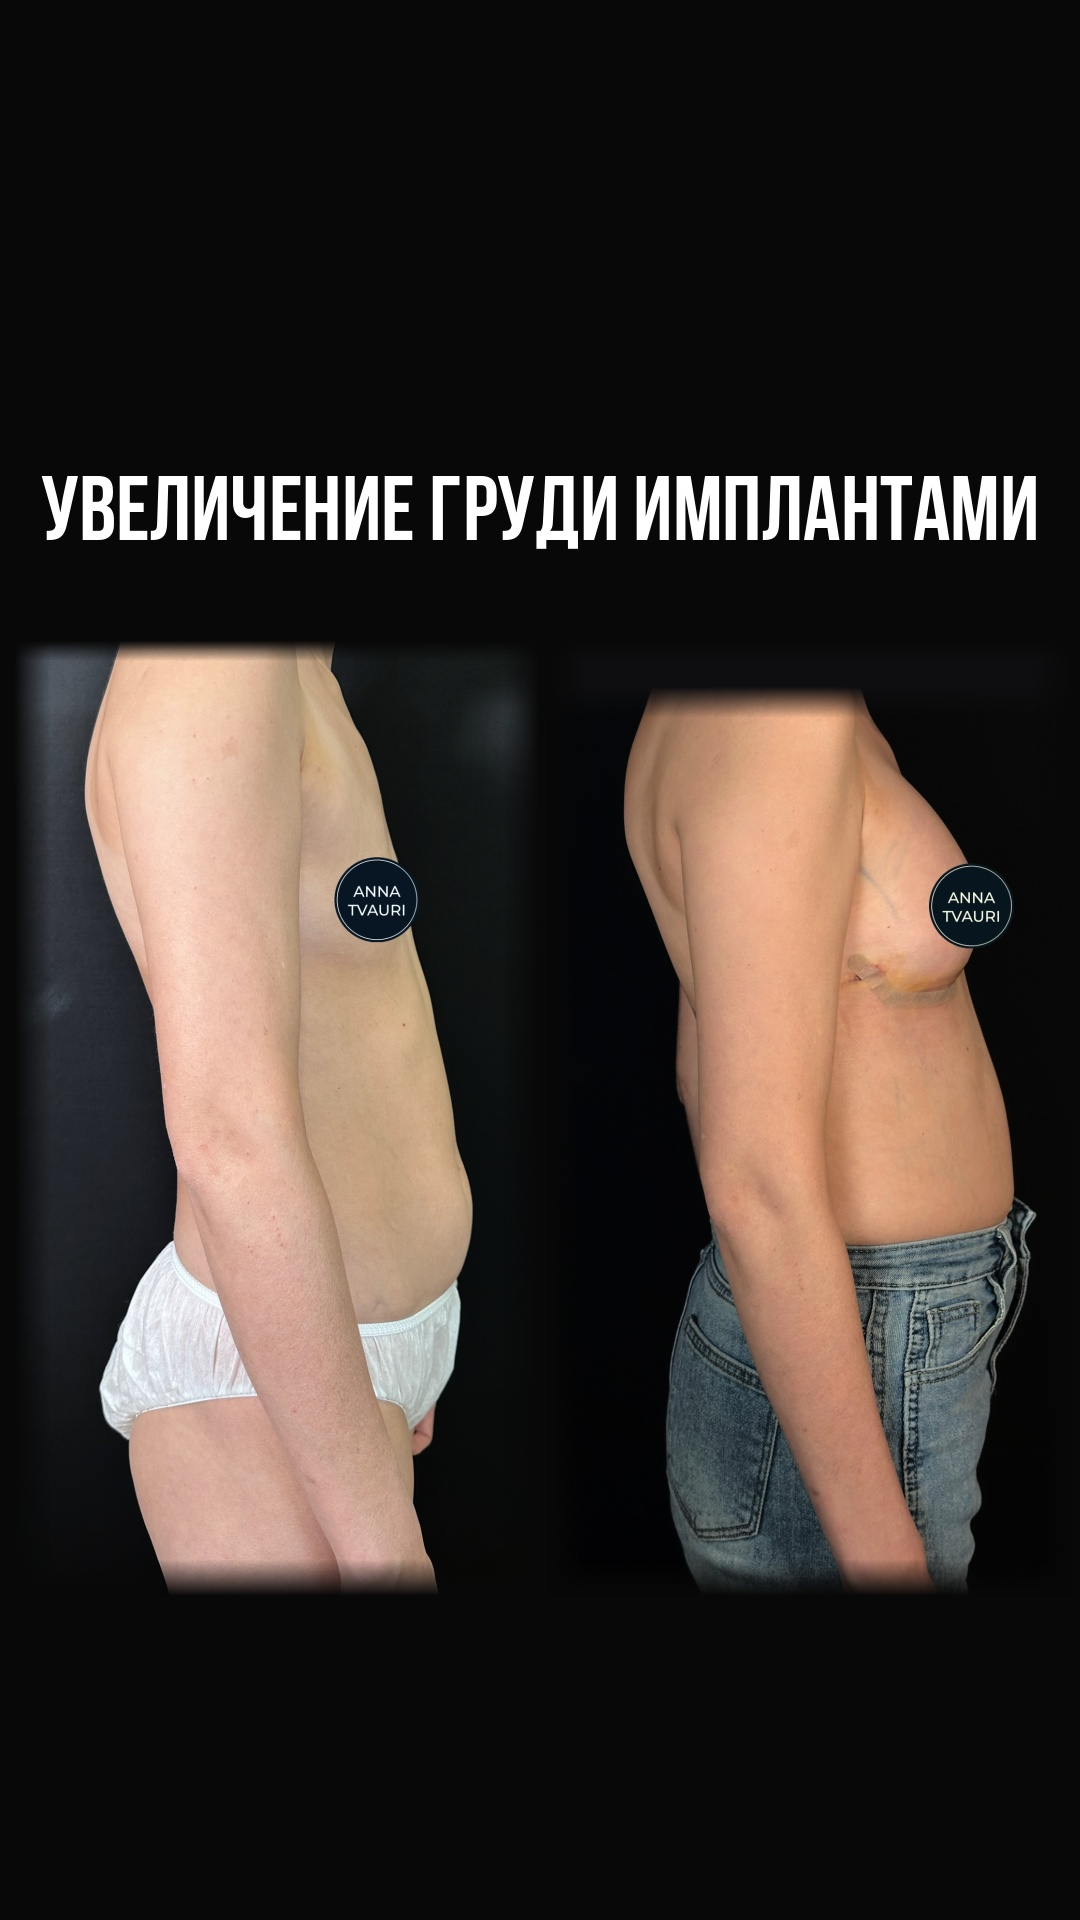
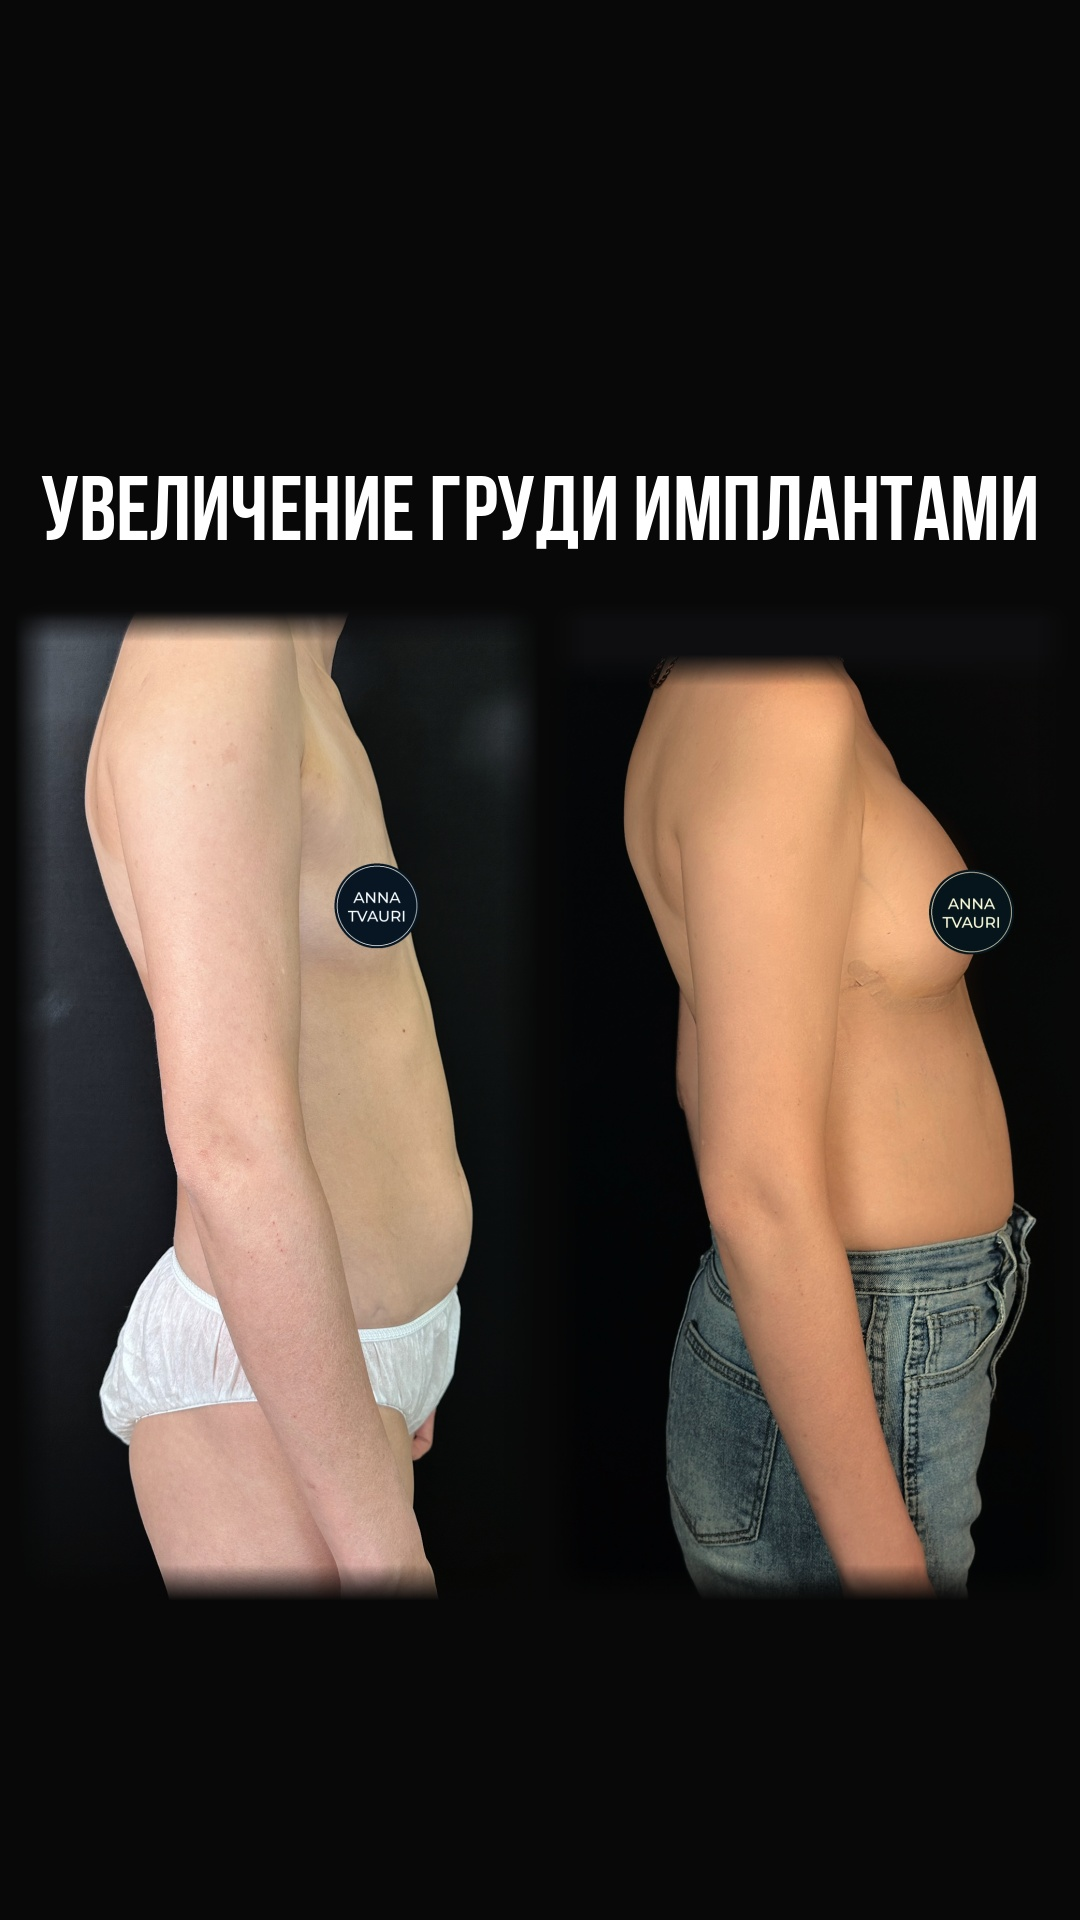
Small-breast reel v4: photos framed neck to fingertips without crop, side ПОСЛЕ bruises softened, light retouch, warmer
Claude-Session: https://claude.ai/code/session_01WwhZiMgoJM3MQocuuEgczm

diff --git a/tools/reel_small_breast.py b/tools/reel_small_breast.py
@@ -51,7 +51,7 @@ def feather(img, e=110):                                                # side p
     h, w = img.shape[:2]; m = (np.clip(np.arange(w) / e, 0, 1) * np.clip((w - 1 - np.arange(w)) / e, 0, 1))[None] * np.clip((h - 1 - np.arange(h)) / e, 0, 1)[:, None]
     return (img * m[..., None] + np.float32([16, 16, 18]) * (1 - m[..., None])).astype(np.uint8)
 SDO = feather(load("side_do.png")); SPO = feather(load("side_po.png")); COLL2 = load("collage_side.jpg")   # side view, built by side.py
-def side(img, cx, z=1.0): return warp(img, 0.70 * z, cx, 1100, 540, 880)       # torso aligned between ДО and ПОСЛЕ
+def side(img, cx, z=1.0): return warp(img, 0.70 * z, cx, 1080, 540, 860)       # torso aligned between ДО and ПОСЛЕ
 def morph(a_, b_, p, f=0.35):
     edge = (xx_ / W * 0.6 + yy_ / H * 0.4)[..., None]
     m = np.clip((p * (1 + f) - edge) / f, 0, 1); return a_ * (1 - m) + b_ * m
@@ -125,17 +125,17 @@ def render_block(t, b=None):
         T1.draw(fr, 1060, t, 1.0, t1 - 0.3)
         if t > 1.9: ablend(fr, T1s, 540 - T1s.shape[1] / 2, 1290, min(1, (t - 1.9) / 0.4) * (1 - ease((t - t1 + 0.3) / 0.35)), WHITE, BLUE)
     elif n == "quote":                                                  # opens straight on her request: quote in a frame over ДО
-        fr = focus(photo_full(DO_IMG, 1.04 + 0.05 * lt / 5.4), lt, 0.7); chip(fr, CH_DO, 60, 228, t, 0.3)
+        fr = focus(photo_full(DO_IMG, 0.95 + 0.04 * lt / 5.4), lt, 0.7); chip(fr, CH_DO, 60, 228, t, 0.3)
         T2.draw(fr, 1180, t, 0.35, t1 - 0.35)
     elif n == "res":                                                    # first result: profile ДО -> ПОСЛЕ, 295 ml counts up
-        z = (1.0 + 0.05 * lt / 5.6) * trans(t, t0); p = ease((t - 6.4) / 1.6)       # ДО -> ПОСЛЕ in profile while she says "сделали увеличение"
+        z = (0.97 + 0.03 * lt / 5.6) * trans(t, t0, 0.03); p = ease((t - 6.4) / 1.6)       # ДО -> ПОСЛЕ in profile while she says "сделали увеличение"
         fr = mblur(morph(side(SDO, 645, z), side(SPO, 702, z), p), lt)
         chip(fr, CH_DO, 60, 228, t, t0 + 0.1, 6.4); chip(fr, CH_PO, 60, 228, t, 7.4)
         T3.draw(fr, 1060, t, 7.6, t1 - 0.3)
         counter(fr, t, 8.4, 9.45, 295, 1205)
         if t > 9.8: ablend(fr, T3s, 540 - T3s.shape[1] / 2, 1300, min(1, (t - 13.8) / 0.4) * (1 - ease((t - t1 + 0.3) / 0.35)), WHITE, BLUE)
     elif n == "turn":                                                   # beautiful after-shot + the turn of the story
-        fr = mblur(photo_full(PO_IMG, (1.02 + 0.05 * lt / 2.8) * trans(t, t0)), lt); chip(fr, CH_PO, 60, 228, t, t0 + 0.15)
+        fr = mblur(photo_full(PO_IMG, (0.95 + 0.04 * lt / 2.8) * trans(t, t0, 0.03)), lt); chip(fr, CH_PO, 60, 228, t, t0 + 0.15)
         T4.draw(fr, 1000, t, t0 + 0.25, t1 - 0.3); flash = 0.25 * max(0, 1 - lt / 0.25)
     elif n == "main":                                                   # close on the surgeon: the main thought
         z = 1.5 - 0.12 * ease(lt / 8)
@@ -144,10 +144,10 @@ def render_block(t, b=None):
     elif n == "wide":                                                   # wide: surgeon and the patient, slow push to the chest
         fr = mblur(vframe(src_of(t), (1.0 + 0.12 * ease(lt / 4.1)) * trans(t, t0), 500, 1000, 960), lt)
     elif n == "final":                                                  # final look at the result
-        fr = mblur(side(SPO, 702, (1.02 + 0.06 * lt / 7) * trans(t, t0)), lt); chip(fr, CH_PO, 60, 228, t, t0 + 0.15)   # the favourable profile
+        fr = mblur(side(SPO, 702, (0.97 + 0.04 * lt / 7) * trans(t, t0, 0.03)), lt); chip(fr, CH_PO, 60, 228, t, t0 + 0.15)   # the favourable profile
         T6.draw(fr, 1000, t, 26.3, t1 - 0.35)
     else:                                                               # the two collages
-        z = 1.12 - 0.12 * ease(lt / 1.4)
+        z = 1.04 - 0.04 * ease(lt / 1.2)
         fr = mblur(warp(COLL if n == "collage" else COLL2, z, 540, 1110, 540, 1110), lt); chip(fr, CH_DO, 40, 610, t, t0 + 0.5); chip(fr, CH_PO, 580, 610, t, t0 + 0.7)
         if n == "collage" and t > t0 + 1.0: ablend(fr, T7, 540 - T7.shape[1] / 2, 370, min(1, (t - t0 - 1.0) / 0.5), WHITE, BLUE)
     if not LIGHT[0] and not n.startswith("collage"): fr = look(fr, t) * (1 - HAZE)

diff --git a/tools/reel_small_breast_side.py b/tools/reel_small_breast_side.py
@@ -22,22 +22,35 @@ def warm(img, k=1.0):
 def top_cut(img, y, f=60):                                              # nothing above the neck: chin/cap fade to black
     bg = np.float32([14, 14, 16]); m = np.clip((np.arange(img.shape[0], dtype=np.float32) - y) / f, 0, 1)[:, None, None]
     return (img * m + bg * (1 - m)).astype(np.uint8)
+from retouch import retouch
+def debruise(rgb, cx=880, cy=760, ax=200, ay=230):
+    """soften bruises, tape and marker lines on the side view: skin colour is evened out, texture kept"""
+    lab = cv2.cvtColor(rgb, cv2.COLOR_RGB2LAB).astype(np.float32); L, a, b = lab[..., 0], lab[..., 1], lab[..., 2]
+    ref = lab[420:560, 720:930].reshape(-1, 3); ref = ref[ref[:, 0] > 120]; a_ref, b_ref = np.median(ref[:, 1]), np.median(ref[:, 2])
+    m = np.zeros(L.shape, np.float32); cv2.ellipse(m, (cx, cy), (ax, ay), 0, 0, 360, 1, -1)
+    m *= (L > 90).astype(np.float32); m = cv2.GaussianBlur(m, (0, 0), 25)
+    lowL = cv2.GaussianBlur(L, (0, 0), 3); hi = L - lowL; bigL = cv2.GaussianBlur(L, (0, 0), 40)
+    L2 = bigL + (lowL - bigL) * 0.45 + hi                               # strip and lines fade, pores stay
+    a2 = a_ref + (a - a_ref) * 0.25; b2 = b_ref + (b - b_ref) * 0.25    # yellow/green/blue tints -> skin tone
+    out = np.stack([L2, a2, b2], -1); k = m[..., None] * 0.85
+    return cv2.cvtColor(np.clip(lab * (1 - k) + out * k, 0, 255).astype(np.uint8), cv2.COLOR_LAB2RGB)
 B = np.array(Image.open("dl/side_before.jpg").convert("RGB")); A = np.array(Image.open("dl/side_after.jpg").convert("RGB"))
+A = retouch(debruise(A), k_red=0.35, k_band=0.3, k_tex=0.05)                 # light retouch like the 3/4 view
 put(B, sticker(82), 838, 702); put(A, sticker(82), 1012, 714)
 def deepen(img):                                                        # grey studio wall -> close to black, skin untouched
     f = img.astype(np.float32); lum = f.mean(2, keepdims=True); k = np.clip((lum - 40) / 50, 0, 1)
     return np.clip(f * (0.45 + 0.55 * k), 0, 255).astype(np.uint8)
-B = top_cut(deepen(B), 160); A = top_cut(deepen(warm(A)), 290)
+B = top_cut(deepen(B), 130); A = top_cut(deepen(warm(A, 1.5)), 215)
 cv2.imwrite("side_do.png", cv2.cvtColor(B, cv2.COLOR_RGB2BGR)); cv2.imwrite("side_po.png", cv2.cvtColor(A, cv2.COLOR_RGB2BGR))
 # collage in the same layout as the first one: title on top, ДО left, ПОСЛЕ right
 W, H = 1080, 1920; col = np.zeros((H, W, 3), np.uint8); col[:] = (8, 8, 9)
 def panel(img, cx, x0):
-    crop = img[200:2048, int(cx - 508):int(cx + 508)].astype(np.float32)          # 1016 x 1848
+    crop = img[110:2048, int(cx - 508):int(cx + 508)].astype(np.float32)          # 1016 x 1848
     h, w = crop.shape[:2]; m = np.ones((h, w), np.float32); e = 70
     m *= np.clip(np.arange(w) / e, 0, 1)[None] * np.clip((w - 1 - np.arange(w)) / e, 0, 1)[None]
     m *= (np.clip((h - 1 - np.arange(h)) / e, 0, 1) * np.clip(np.arange(h) / 40, 0, 1))[:, None]; crop = crop * m[..., None] + 8 * (1 - m[..., None])
-    return cv2.resize(crop.astype(np.uint8), (526, 956), interpolation=cv2.INTER_AREA)
-col[640:1596, 14:540] = panel(B, 645, 14); col[640:1596, 548:1074] = panel(A, 702, 548)
+    return cv2.resize(crop.astype(np.uint8), (526, 1001), interpolation=cv2.INTER_AREA)
+col[600:1601, 14:540] = panel(B, 645, 14); col[600:1601, 548:1074] = panel(A, 702, 548)
 im = Image.fromarray(col); d = ImageDraw.Draw(im); f = osw(92)
 d.text((540, 540), "УВЕЛИЧЕНИЕ ГРУДИ ИМПЛАНТАМИ", font=f, fill=(255, 255, 255), anchor="ms")
 im.save("collage_side.jpg", quality=95)
